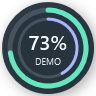
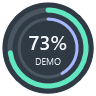
Fix circular widget dragging and remove clipped shadow

Changed region(s): [[0.0, 0.0, 1.0, 1.0], [0.0938, 0.0938, 0.25, 0.25]]

diff --git a/src/CodexUsageTracker.App/WidgetWindow.xaml b/src/CodexUsageTracker.App/WidgetWindow.xaml
@@ -1,10 +1,9 @@
 <Window x:Class="CodexUsageTracker.App.WidgetWindow" xmlns="http://schemas.microsoft.com/winfx/2006/xaml/presentation" xmlns:x="http://schemas.microsoft.com/winfx/2006/xaml" xmlns:local="clr-namespace:CodexUsageTracker.App" Title="Codex quota indicator" Width="96" Height="96" WindowStyle="None" ResizeMode="NoResize" AllowsTransparency="True" Background="Transparent" ShowInTaskbar="False" Topmost="True" ShowActivated="False" PreviewMouseLeftButtonDown="PointerDown" PreviewMouseMove="PointerMove" PreviewMouseLeftButtonUp="PointerUp">
-  <Button ToolTip="{Binding WidgetTooltip}" Click="OpenDetails" AutomationProperties.Name="Open Codex quota details" Padding="0" Background="Transparent" BorderBrush="Transparent">
+  <Button ToolTip="{Binding WidgetTooltip}" Click="OpenDetails" AutomationProperties.Name="Open Codex quota details" Padding="0" Margin="2" Width="92" Height="92" Background="Transparent" BorderBrush="Transparent" Cursor="Hand">
+    <Button.Clip><EllipseGeometry Center="46,46" RadiusX="46" RadiusY="46"/></Button.Clip>
     <Button.Template><ControlTemplate TargetType="Button"><ContentPresenter/></ControlTemplate></Button.Template>
     <Grid Width="92" Height="92">
-      <Ellipse Fill="{DynamicResource GlassStrongBrush}">
-        <Ellipse.Effect><DropShadowEffect BlurRadius="20" ShadowDepth="5" Opacity="0.38" Color="#000000"/></Ellipse.Effect>
-      </Ellipse>
+      <Ellipse Fill="{DynamicResource GlassStrongBrush}" Stroke="{DynamicResource BorderBrush}" StrokeThickness="0.5"/>
       <local:QuotaRing x:Name="Ring" Five="{Binding FiveValue}" Week="{Binding WeekValue}" Margin="3"/>
       <StackPanel VerticalAlignment="Center" HorizontalAlignment="Center">
         <TextBlock Text="{Binding FiveRemaining}" FontWeight="SemiBold" FontSize="20" HorizontalAlignment="Center"/>

diff --git a/src/CodexUsageTracker.App/WidgetWindow.xaml.cs b/src/CodexUsageTracker.App/WidgetWindow.xaml.cs
@@ -5,14 +5,15 @@ namespace CodexUsageTracker.App;
 public partial class WidgetWindow : Window
 {
     private readonly TrackerController controller;
-    private Point start;
-    private bool down, dragged;
+    private readonly WidgetDragGesture gesture = new();
     public WidgetWindow(TrackerController controller)
     {
         InitializeComponent(); this.controller = controller; DataContext = controller.ViewModel;
         Left = controller.Settings.Left ?? SystemParameters.WorkArea.Right - Width - 24;
         Top = controller.Settings.Top ?? SystemParameters.WorkArea.Bottom - Height - 24;
         ClampPosition();
+        LostMouseCapture += (_, _) => { if (gesture.IsActive) FinishGesture(openOnClick: false); };
+        IsVisibleChanged += (_, _) => { if (!IsVisible && gesture.IsActive) FinishGesture(openOnClick: false); };
     }
     public void ClampPosition()
     {
@@ -20,13 +21,42 @@ public partial class WidgetWindow : Window
         Left = Math.Clamp(double.IsFinite(Left) ? Left : 0, SystemParameters.VirtualScreenLeft, SystemParameters.VirtualScreenLeft + Math.Max(0, SystemParameters.VirtualScreenWidth - Width));
         Top = Math.Clamp(double.IsFinite(Top) ? Top : 0, SystemParameters.VirtualScreenTop, SystemParameters.VirtualScreenTop + Math.Max(0, SystemParameters.VirtualScreenHeight - Height));
     }
-    private void PointerDown(object sender, MouseButtonEventArgs e) { down = true; dragged = false; start = e.GetPosition(this); }
+    private void PointerDown(object sender, MouseButtonEventArgs e)
+    {
+        // Own the capture before Button can capture the pointer and consume movement.
+        e.Handled = true;
+        if (!CaptureMouse()) return;
+        var point = PointToScreen(e.GetPosition(this));
+        var dpi = VisualTreeHelper.GetDpi(this);
+        gesture.Begin(point.X, point.Y, Left, Top, dpi.DpiScaleX, dpi.DpiScaleY,
+            SystemParameters.MinimumHorizontalDragDistance, SystemParameters.MinimumVerticalDragDistance);
+    }
     private void PointerMove(object sender, MouseEventArgs e)
     {
-        if (!down || e.LeftButton != MouseButtonState.Pressed || (e.GetPosition(this) - start).Length < 5) return;
-        dragged = true; down = false; DragMove(); ClampPosition();
-        controller.Settings.Left = Left; controller.Settings.Top = Top; controller.SaveSettings();
+        if (!gesture.IsActive) return;
+        e.Handled = true;
+        if (e.LeftButton != MouseButtonState.Pressed) { FinishGesture(openOnClick: false); return; }
+        var point = PointToScreen(e.GetPosition(this));
+        if (gesture.Move(point.X, point.Y) is not { } position) return;
+        Left = position.Left; Top = position.Top;
     }
-    private void PointerUp(object sender, MouseButtonEventArgs e) { down = false; if (dragged) e.Handled = true; }
-    private void OpenDetails(object sender, RoutedEventArgs e) { if (!dragged) controller.ToggleDetails(); }
+    private void PointerUp(object sender, MouseButtonEventArgs e)
+    {
+        if (!gesture.IsActive) return;
+        e.Handled = true;
+        FinishGesture(openOnClick: true);
+    }
+    private void FinishGesture(bool openOnClick)
+    {
+        var moved = gesture.End(); // Clear state before releasing capture (which raises an event).
+        ReleaseMouseCapture();
+        if (moved)
+        {
+            ClampPosition();
+            controller.Settings.Left = Left; controller.Settings.Top = Top; controller.SaveSettings();
+        }
+        else if (openOnClick) controller.ToggleDetails();
+    }
+    // Keyboard and accessibility activation still use the standard button action.
+    private void OpenDetails(object sender, RoutedEventArgs e) => controller.ToggleDetails();
 }

diff --git a/tests/CodexUsageTracker.Tests/WidgetDragTests.cs b/tests/CodexUsageTracker.Tests/WidgetDragTests.cs
@@ -1,0 +1,53 @@
+using CodexUsageTracker.Core;
+using Xunit;
+
+namespace CodexUsageTracker.Tests;
+
+public class WidgetDragTests
+{
+    private static WidgetDragGesture Start(double scale = 1)
+    {
+        var gesture = new WidgetDragGesture();
+        gesture.Begin(500, 400, 100, 200, scale, scale, 4, 4);
+        return gesture;
+    }
+
+    [Fact] public void SmallPointerJitterRemainsAClick()
+    {
+        var gesture = Start();
+        Assert.Null(gesture.Move(502, 401));
+        Assert.False(gesture.End());
+    }
+
+    [Fact] public void DragUsesOriginalScreenPositionAcrossRepeatedMoves()
+    {
+        var gesture = Start();
+        Assert.Equal((120d, 220d), gesture.Move(520, 420)!.Value);
+        Assert.Equal((150d, 190d), gesture.Move(550, 390)!.Value);
+        Assert.True(gesture.End());
+        Assert.Null(gesture.Move(600, 500));
+    }
+
+    [Theory] [InlineData(1)] [InlineData(1.5)] [InlineData(2)]
+    public void ScreenPixelsConvertToWindowDips(double scale)
+    {
+        var gesture = Start(scale);
+        Assert.Equal((110d, 205d), gesture.Move(500 + 10 * scale, 400 + 5 * scale)!.Value);
+    }
+
+    [Fact] public void ReturningToStartAfterDraggingDoesNotOpenDetails()
+    {
+        var gesture = Start();
+        gesture.Move(550, 450); gesture.Move(500, 400);
+        Assert.True(gesture.End());
+        gesture.Begin(500, 400, 100, 200, 1, 1, 4, 4);
+        Assert.False(gesture.End());
+    }
+
+    [Fact] public void SupportsDraggingToNegativeMonitorCoordinates()
+    {
+        var gesture = Start();
+        Assert.Equal((-300d, -100d), gesture.Move(100, 100)!.Value);
+        Assert.True(gesture.End());
+    }
+}

diff --git a/src/CodexUsageTracker.Core/WidgetDragGesture.cs b/src/CodexUsageTracker.Core/WidgetDragGesture.cs
@@ -1,0 +1,35 @@
+namespace CodexUsageTracker.Core;
+
+/// <summary>Separates clicks from drags using stable screen coordinates and DIP-aware movement.</summary>
+public sealed class WidgetDragGesture
+{
+    private double screenX, screenY, left, top, scaleX, scaleY, thresholdX, thresholdY;
+    public bool IsActive { get; private set; }
+    public bool HasDragged { get; private set; }
+
+    public void Begin(double pointerX, double pointerY, double windowLeft, double windowTop,
+        double dpiScaleX, double dpiScaleY, double horizontalThreshold, double verticalThreshold)
+    {
+        screenX = pointerX; screenY = pointerY; left = windowLeft; top = windowTop;
+        scaleX = dpiScaleX; scaleY = dpiScaleY;
+        thresholdX = horizontalThreshold; thresholdY = verticalThreshold;
+        IsActive = true; HasDragged = false;
+    }
+
+    public (double Left, double Top)? Move(double pointerX, double pointerY)
+    {
+        if (!IsActive) return null;
+        var dx = (pointerX - screenX) / scaleX;
+        var dy = (pointerY - screenY) / scaleY;
+        if (!HasDragged && Math.Abs(dx) < thresholdX && Math.Abs(dy) < thresholdY) return null;
+        HasDragged = true;
+        return (left + dx, top + dy);
+    }
+
+    public bool End()
+    {
+        var moved = IsActive && HasDragged;
+        IsActive = false; HasDragged = false;
+        return moved;
+    }
+}

diff --git a/README.md b/README.md
@@ -11,7 +11,7 @@ Screenshots use clearly marked synthetic preview values, not account data.
 
 ## Features
 
-- Always-on-top circular widget; click or keyboard-activate to open details; drag to move.
+- Always-on-top circular widget with a clean circular edge and no clipped shadow; click or keyboard-activate to open details. Hold and drag anywhere on the circle to move it; the position is saved on release. Dragging never opens the details panel.
 - Borderless translucent panels with 40% desktop visibility, rounded glass cards, and light/dark palettes. A single 26-DIP clip keeps the background and content corners aligned; text and controls retain their own opacity.
 - System tray icon with quota rings, remaining quota tooltip, refresh, settings, and quit.
 - By default the circle is visible only while a Codex process runs; tray-only and always-visible modes are configurable.
@@ -102,7 +102,7 @@ docs/                       Architecture and synthetic UI previews
 
 ## Validation and limitations
 
-The initial implementation was compiled and tested on Windows 11 x64 with .NET SDK 8.0.425. Twenty automated tests cover bucket selection, unknown/malformed fields, stale readings, countdown boundaries, alert deduplication, local fallback, SQLite retention, and settings recovery. Live app-server retrieval was verified with an existing Codex sign-in. Both themes and the settings panel are rendered for visual checks. Windows 10 compatibility is targeted but has not been tested on a separate Windows 10 machine.
+The implementation was compiled and tested on Windows 11 x64 with .NET SDK 8.0.425. Twenty-seven automated tests cover bucket selection, unknown/malformed fields, stale readings, countdown boundaries, alert deduplication, local fallback, SQLite retention, settings recovery, and click/drag handling at different display scales. Live app-server retrieval was verified with an existing Codex sign-in. Both themes and the settings panel are rendered for visual checks; widget pixels outside the circular edge are verified transparent. Windows 10 compatibility is targeted but has not been tested on a separate Windows 10 machine.
 
 Codex process detection recognizes `codex.exe` (desktop app-server or CLI). The tracker's own temporary quota child is excluded from visibility decisions while it is reading. A background Codex process counts as running even if its main window is closed. There is no taskbar injection, browser scraping, automatic update service, or usage prediction based on token pricing. This is an independent utility, not an official OpenAI product.
 
